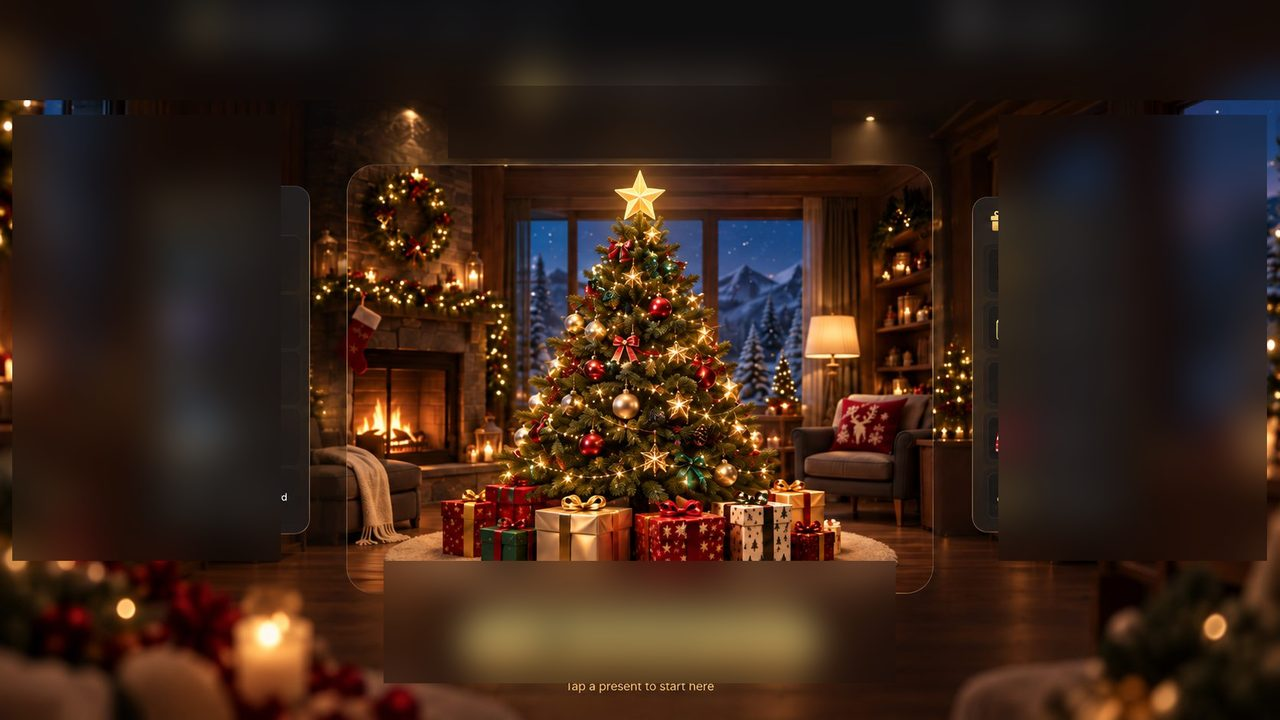
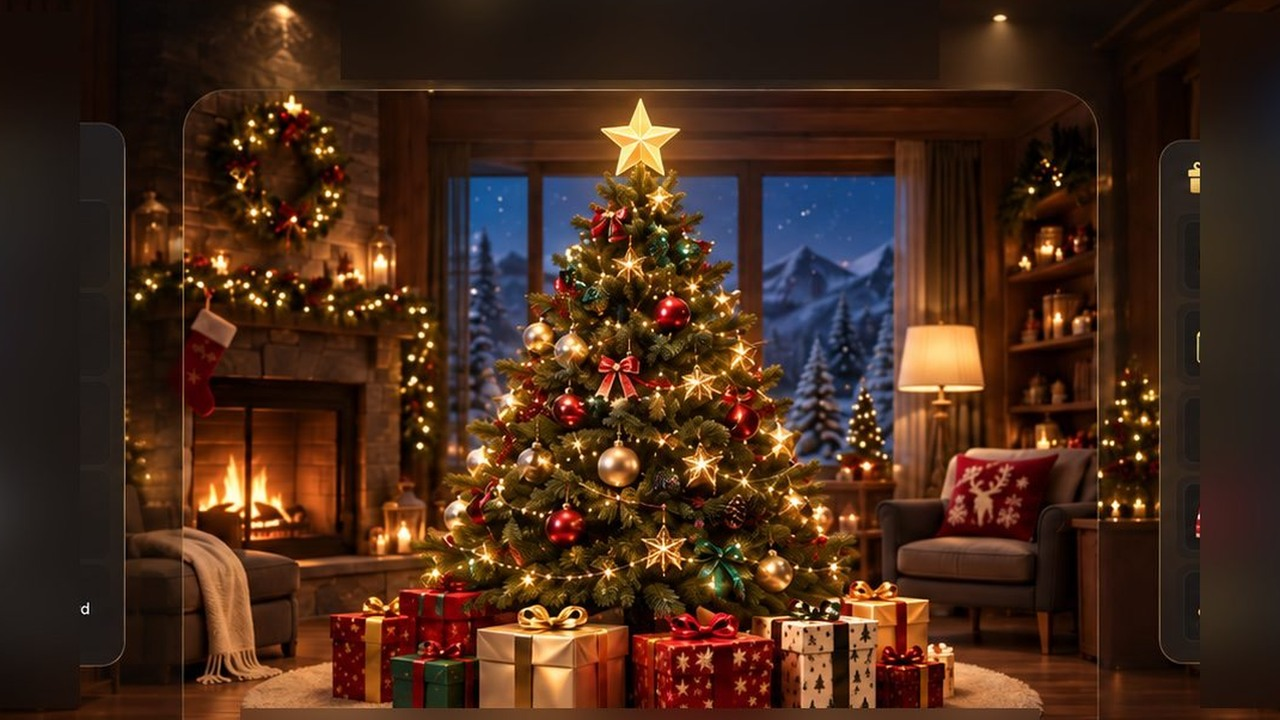
Remove Christmas gift side panels completely from UI and scene assets.
Crop baked frosted side cards out of the photoreal scene images and drop floating PrizeRail overlays so the tree room stays fully visible; surprises remain available via a text link.

diff --git a/src/features/christmas/gifts/ChristmasGiftsPage.tsx b/src/features/christmas/gifts/ChristmasGiftsPage.tsx
@@ -390,54 +390,11 @@ export default function ChristmasGiftsPage() {
 
         {/* Brand lives in the site header on this route — no floating chip over the tree */}
 
-        {/* z5 — floating reward cards clear of the tree */}
-        {!compact ? (
-          <>
-            <PrizeRail
-              side="left"
-              limit={4}
-              className="gt-rail-left pointer-events-auto absolute top-[18%] z-[5] hidden w-[170px] lg:block"
-            />
-            <PrizeRail
-              side="right"
-              limit={4}
-              className="gt-rail-right pointer-events-auto absolute top-[18%] z-[5] hidden w-[170px] lg:block"
-            />
-          </>
-        ) : (
-          <div className="pointer-events-auto absolute inset-x-2 bottom-[6.9rem] z-[5] flex gap-2">
-            {/* Bottom strip under the tree — never covers the canopy */}
-            <PrizeRail
-              side="left"
-              limit={2}
-              compact
-              onSeeAll={() => setSeeAllOpen(true)}
-              className="min-w-0 flex-1"
-            />
-            <PrizeRail
-              side="right"
-              limit={2}
-              compact
-              onSeeAll={() => setSeeAllOpen(true)}
-              className="min-w-0 flex-1"
-            />
-          </div>
-        )}
+        {/* No side reward panels — room stays fully visible. Surprises via link below. */}
 
-        {!compact ? (
-          <style>{`
-            .gt-rail-left { left: clamp(16px, 2.5vw, 48px); }
-            .gt-rail-right { right: clamp(16px, 2.5vw, 48px); }
-          `}</style>
-        ) : null}
-
-        {/* z4 — interactive presents (spaced, no overlap; sit above the mobile reward strip) */}
+        {/* z4 — interactive presents (spaced, no overlap) */}
         <section
-          className={`absolute inset-x-0 z-[4] mx-auto max-w-[min(640px,90vw)] sm:max-w-[min(720px,70vw)] ${
-            compact
-              ? "bottom-[15.75rem] h-[24%]"
-              : "bottom-[8.75rem] h-[28%] sm:bottom-[9.25rem] sm:h-[30%]"
-          }`}
+          className="absolute inset-x-0 bottom-[8.75rem] z-[4] mx-auto h-[30%] max-w-[min(720px,92vw)] sm:bottom-[9.25rem] sm:h-[32%] sm:max-w-[min(780px,70vw)]"
           aria-label="Christmas presents"
         >
           {presents.map((p) => (
@@ -502,6 +459,14 @@ export default function ChristmasGiftsPage() {
                 {claimHint}
               </p>
             ) : null}
+
+            <button
+              type="button"
+              onClick={() => setSeeAllOpen(true)}
+              className="mt-2 text-[11px] font-medium tracking-wide text-amber-200/75 underline-offset-2 hover:text-amber-100 hover:underline"
+            >
+              See possible surprises
+            </button>
 
             <nav
               aria-label="Christmas links"

diff --git a/src/features/christmas/gifts/ChristmasTreeScene.tsx b/src/features/christmas/gifts/ChristmasTreeScene.tsx
@@ -152,17 +152,7 @@ export function ChristmasTreeScene({ className, reduceMotion }: Props) {
         }}
       />
 
-      {/* z2 — extremely restrained central frame (transparent, room continues) */}
-      <div
-        aria-hidden
-        className="pointer-events-none absolute left-1/2 top-[7%] hidden h-[74%] w-[min(620px,64vw)] -translate-x-1/2 rounded-[24px] md:block"
-        style={{
-          zIndex: 2,
-          border: "1px solid rgba(220,180,95,0.22)",
-          background: "transparent",
-          boxShadow: "none",
-        }}
-      />
+      {/* z2 — no central glass frame (was reading as side panels) */}
 
       {/* z3 — ambient animation layers */}
       {!reduceMotion ? (
